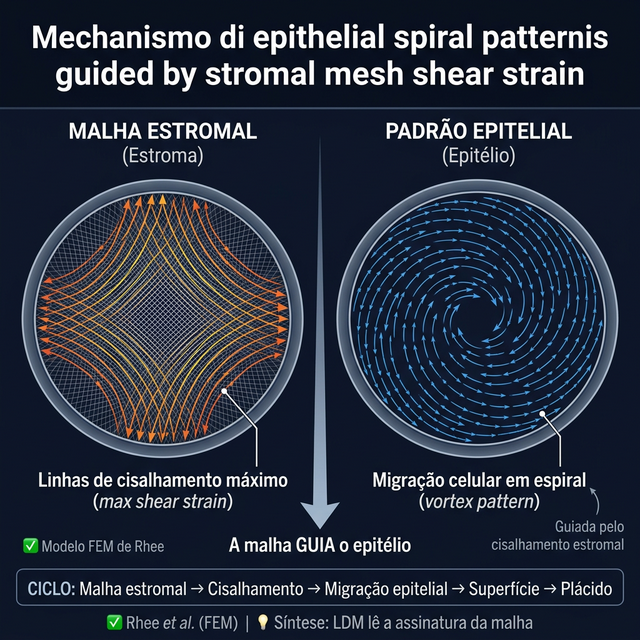
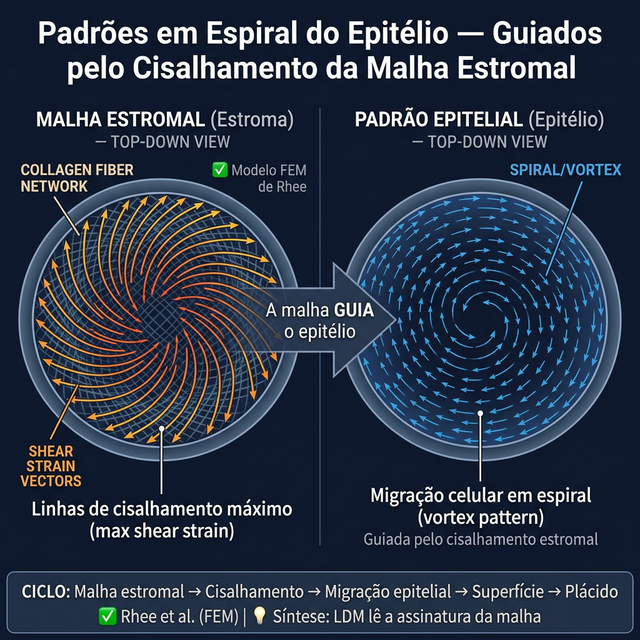
fix(CH-016): revisao Skill Mae - 3 erros criticos + 3 importantes corrigidos
ERROS CRITICOS CORRIGIDOS:
  Fig 16.2: titulo regenerado em portugues (era pseudo-italiano/ingles)
  Fig 16.3: PIO corrigida para +Z (era lateral), cone inferior
  Fig 16.4: titulo regenerado em portugues (era ingles)

ERROS IMPORTANTES CORRIGIDOS:
  Texto: PTA + profundidade do flap (120-160um em cornea 500um)
  Texto: PRK risco marcado como estimativa (era 10x sem ref)
  Texto: Cross-ref CH-015 adicionado na tabela de cirurgias

ICRS confirmado como procedimento terapeutico (nao refrativo)

diff --git a/chapters/pt/CH-016_Malha_Estromal_Superfície.md b/chapters/pt/CH-016_Malha_Estromal_Superfície.md
@@ -247,7 +247,7 @@ Epitélio                           Epitélio
 ═══════════════                    ═══════════════
 ```
 
-> 💡 **Conexão com PTA (Santhiago 2014):** O limiar de 40% de tecido alterado para risco de ectasia pós-LASIK agora ganha uma explicação estrutural: quando o LASIK remove >40% da espessura, ele destrói virtualmente **todas** as fibras em mola e grande parte das oblíquas interlamelares. A córnea perde suas duas linhas de defesa mecânica simultaneamente.
+> 💡 **Conexão com PTA (Santhiago 2014):** O limiar de 40% de tecido alterado para risco de ectasia pós-LASIK agora ganha uma explicação estrutural: considerando um flap de 120-160 µm em uma córnea de ~500 µm, quando o LASIK remove >40% da espessura, ele destrói virtualmente **todas** as fibras em mola e grande parte das oblíquas interlamelares. A córnea perde suas duas linhas de defesa mecânica simultaneamente.
 
 ### PRK: Preservando a Malha
 
@@ -257,7 +257,7 @@ A **PRK** *(ceratectomia fotorrefrativa)* remove apenas o epitélio e ablaciona 
 - ✅ As oblíquas profundas não são cortadas
 - Apenas a superficial mais superficial é afetada
 
-> 💡 Isto explica por que a PRK tem risco ~10× menor de ectasia que o LASIK em perfis de risco semelhantes.
+> ⚠️ **Estimativa clínica:** A PRK tem risco substancialmente menor de ectasia que o LASIK em perfis de risco semelhantes, pois preserva as fibras em mola e a maioria das oblíquas interlamelares. O valor exato depende do contexto clínico (Randleman 2008 — Risk Factor Scoring System).
 
 ### ICRS: Abaixo da Zona de Molas
 
@@ -323,6 +323,8 @@ CAMADA 1: LAMELAS POSTERIORES (Ortogonais)
 | **PRK** | Preserva | Preserva (profundas) | Afeta superficialmente | Remove temporariamente |
 | **ICRS** | Separa localmente | ✅ SUBSTITUI | ✅ PRESERVA | Preserva |
 | **CXL** | Pouco efeito | ✅ REFORÇA | ✅ REFORÇA | Preserva |
+
+→ *Para biomecânica detalhada do CXL e sua interação com ICRS, ver CH-015.*
 
 ### O Ciclo Estroma → Epitélio → Plácido
 